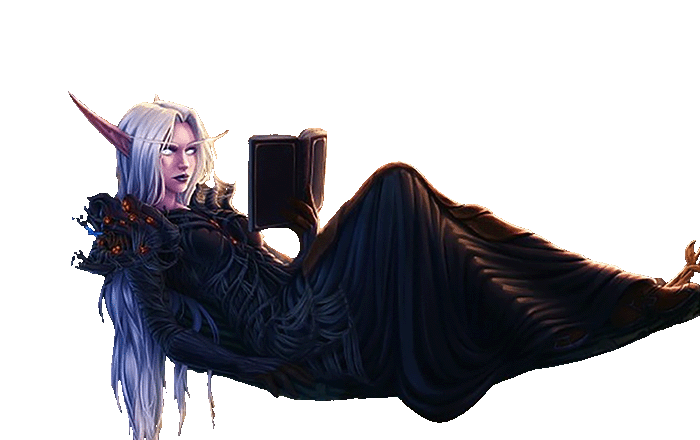
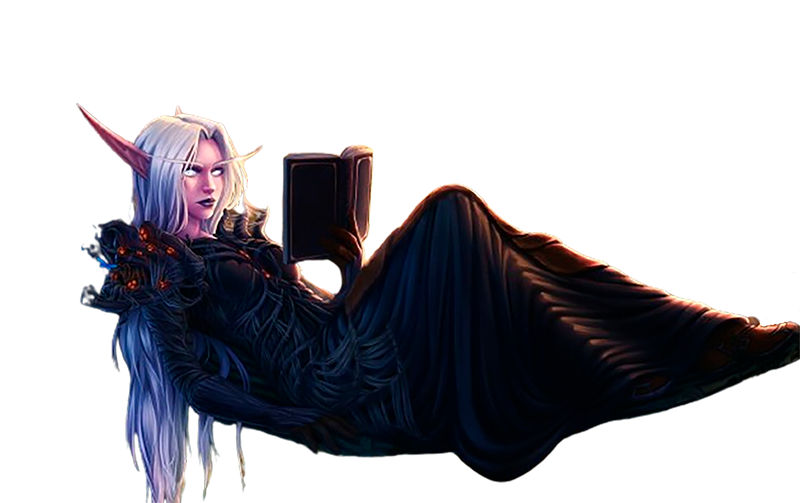
Настройка адаптива

diff --git a/index.html b/index.html
@@ -26,14 +26,14 @@
 <body>
   <wrapper class="wrapper">
 
-
-    <div class="box mb-2">
+    <!-- ########### nav_bar ############################ -->
+    <container class="nav_bar box mb-2">
       <div class="box_lvl p-2">
         <div class="container-fluid ">
           <div class="row ">
             <div class=" header_menu border-1 col-6">
               <div class="header_menu_container d-flex ">
-                <nav class="navbar navbar-expand-md bg-primary">
+                <nav class="navbar navbar-expand-xl bg-primary">
                   <div class="container-fluid">
                     <button class="navbar-toggler" type="button" data-bs-toggle="offcanvas"
                       data-bs-target="#offcanvasNavbar" aria-controls="offcanvasNavbar" aria-expanded="false"
@@ -59,29 +59,76 @@
                           <li class="nav-item">
                             <a class="nav-link" href="#">О нас</a>
                           </li>
-                          <li class="nav-item dropdown">
-                            <a class="nav-link dropdown-toggle" href="#" role="button" data-bs-toggle="dropdown"
-                              aria-expanded="false" data-bs-auto-close="outside">
-                              Dropdown
-                            </a>
-                            <ul class="dropdown-menu dropdown-menu-end">
-                              <li><a class="dropdown-item" href="#">Action</a></li>
-                              <li><a class="dropdown-item" href="#">Another action</a></li>
-                              <li class="nav-item dropend">
-                                <a class="nav-link dropdown-toggle" href="#" role="button" data-bs-toggle="dropdown"
-                                  aria-expanded="false" data-bs-auto-close="outside">
-                                  Dropdown
-                                </a>
-                                <ul class="dropdown-menu dropdown-menu-end">
-                                  <li><a class="dropdown-item" href="#">Action</a></li>
-                                  <li><a class="dropdown-item" href="#">Another action</a></li>
-                                </ul>
-                              </li>
-                              <li><a class="dropdown-item" href="#">Something else here</a></li>
-                            </ul>
-                          </li>
+
                         </ul>
-                      </div>
+                        <hr>
+                        <div class="d-block d-xl-none box_lvl p-2 mb-2  ">
+                          <p>Авторизция</p>
+                          <hr>
+                          <form>
+                            <div class="mb-3">
+                              <label for="exampleInputEmail1" class="form-label">Email address</label>
+                              <input type="email" class="form-control" id="exampleInputEmail1"
+                                aria-describedby="emailHelp">
+                              <div id="emailHelp" class="form-text">We'll never share your email with anyone else.</div>
+                            </div>
+                            <div class="mb-3">
+                              <label for="exampleInputPassword1" class="form-label">Password</label>
+                              <input type="password" class="form-control" id="exampleInputPassword1">
+                            </div>
+                            <div class="mb-3 form-check">
+                              <input type="checkbox" class="form-check-input" id="exampleCheck1">
+                              <label class="form-check-label" for="exampleCheck1">Check me out</label>
+                            </div>
+                            <button type="submit" class="btn btn-primary">Submit</button>
+                          </form>
+                        </div>
+                        
+                        <div class="d-block d-xl-none box_lvl p-2">
+                          <div class="text-center ">Последние книги</div>
+                          <hr>
+                          <div class="favorites_items">
+                            <div class="favorites_item d-flex align-items-center mb-2 ">
+                              <div class="favorites_image me-1 d-flex"><img
+                                  src="/assets/img/books/books_preview/kr2bfo46ow.jpg" alt=""></div>
+                              <div class="favorites_title"><a href="">
+                                  S.T.A.L.K.E.R. 01. Тумановский
+                                  Ежи и Дядищев
+                                  Александр - Тени Чернобыля. Клык
+                                </a></div>
+                            </div>
+                            <div class="favorites_item d-flex align-items-center mb-2  ">
+                              <div class="favorites_image me-1"><img src="/assets/img/books/books_preview/fon.jpg"
+                                  alt="">
+                              </div>
+                              <div class="favorites_title"><a href="">
+                                  Орехов Василий - Зона поражения
+                                </a></div>
+                            </div>
+                            <div class="favorites_item d-flex align-items-center mb-2  ">
+                              <div class="favorites_image me-1"><img
+                                  src="/assets/img/books/books_preview/kr2bfo46ow.jpg" alt=""></div>
+                              <div class="favorites_title"><a href="">
+                                  Зона поражения
+                                </a></div>
+                            </div>
+                            <div class="favorites_item d-flex align-items-center mb-2  ">
+                              <div class="favorites_image me-1"><img
+                                  src="/assets/img/books/books_preview/07g9k0los8.jpg" alt=""></div>
+                              <div class="favorites_title"><a href="">
+                                  S.T.A.L.K.E.R. 13. Калугин Алексей - Мечта на поражение
+                                </a></div>
+                            </div>
+                            <div class="favorites_item d-flex align-items-center mb-2  ">
+                              <div class="favorites_image me-1"><img
+                                  src="/assets/img/books/books_preview/mpidivxsgn.jpg" alt=""></div>
+                              <div class="favorites_title"><a href="">
+                                  S.T.A.L.K.E.R. 01. Тумановский Ежи и Дядищев Александр - Тени Чернобыля. Клык
+                                </a></div>
+                            </div>
+                          </div>
+                        </div>
+                      </div> <!-- offcanvas-body -->
                     </div>
                   </div>
                 </nav>
@@ -104,15 +151,10 @@
           </div> <!-- row -->
         </div> <!-- container-fluid -->
       </div>
-    </div>
+    </container> <!-- nav_bar -->
+    <!-- ########### /nav_bar ############################ -->
 
-
-
-
-
-
-    
-
+    <!-- ########### header ############################ -->
     <header class="header box mb-2 parallax">
       <div class="parallax__body rounded">
         <div class="header_top  p-1   parallax__container ">
@@ -166,7 +208,7 @@
               <div class="offcanvas-body">
                 <div class="d-flex  sidebar_container">
                   <div class="sidebar_container_row d-flex flex-column  ">
-   
+
                     <div class="border sidebar_genre box_lvl mb-2 p-2">
                       <div class="">
                         <div class="text-center ">Жанры</div>
@@ -544,6 +586,7 @@
           <container class="col d-flex box sidebar 	d-none d-xl-block">
             <div class="d-flex  sidebar_container">
               <div class="sidebar_container_row d-flex flex-column  ">
+                <!-- ### Авторизация ### -->
                 <div class=" sidebar_authorization  box_lvl mb-2 p-2">
                   <form>
                     <div class="mb-3">
@@ -562,7 +605,10 @@
                     <button type="submit" class="btn btn-primary">Submit</button>
                   </form>
 
-                </div>
+                </div> <!-- sidebar_authorization -->
+                <!-- ### /Авторизация ### -->
+
+                <!-- ### Жанры ### -->
                 <div class="border sidebar_genre box_lvl mb-2 p-2">
                   <div class="">
                     <div class="text-center ">Жанры</div>
@@ -646,6 +692,9 @@
                     </div>
                   </div>
                 </div>
+                <!-- ### /Жанры ### -->
+
+                <!-- ### Избранное ### -->
                 <div class="border box_lvl sidebar_favorites p-2">
                   <div class="">
                     <div class="text-center ">Последние книги</div>
@@ -691,7 +740,9 @@
                     </div>
                   </div>
                 </div>
-              </div> <!-- -->
+                <!-- ### /Избранное ### -->
+
+              </div> <!-- sidebar_container_row-->
             </div> <!-- sidebar_container-->
           </container> <!-- sidebar-->
           <!-- ######## /sidebar ########## -->

diff --git a/assets/css/main.css b/assets/css/main.css
@@ -420,7 +420,7 @@ main.main {
 }
 
 
-.images-parralax__fon {
+/* .images-parralax__fon {
     background: url("/assets/img/parallax/fon.jpg") top / cover no-repeat;
     
     top: 0;
@@ -448,7 +448,70 @@ main.main {
     .images-parralax__book {
         background-position: 20% top;
     }
+} */
+
+.images-parralax__fon {
+    background: url("/assets/img/parallax/fon.jpg") center / cover no-repeat;
+
+    top: 0;
 }
+
+.images-parralax__forest {
+    background: url("/assets/img/parallax/forest.png") top / cover no-repeat;
+    top: 0%;
+    z-index: 2;
+}
+
+.images-parralax__book {
+    background: url("/assets/img/parallax/book.png") bottom / contain no-repeat;
+    background-size: 65%;
+    top: 35%;
+    left: -10%;
+    z-index: 3;
+
+}
+
+@media (max-width: 1300px) {
+    .images-parralax__book {
+        background: url("/assets/img/parallax/book.png") bottom / contain no-repeat;
+        background-size: 65%;
+        top: 25%;
+        left: -10%;
+        z-index: 3;
+    
+    }
+}
+
+@media (max-width: 1100px) {
+    .images-parralax__book {
+        background: url("/assets/img/parallax/book.png") bottom / contain no-repeat;
+        /*background-size: 60%;*/
+        top: 20%;
+        left: -10%;
+        z-index: 3;
+    }
+}
+
+@media (max-width: 600px) {
+    .images-parralax__book {
+        background: url("/assets/img/parallax/book.png") bottom / contain no-repeat;
+        /*background-size: 60%;*/
+        top: 10%;
+        left: -10%;
+        z-index: 3;
+    }
+}
+
+@media (max-width: 400px) {
+    .images-parralax__book {
+        background: url("/assets/img/parallax/book.png") bottom / contain no-repeat;
+        /*background-size: 60%;*/
+        top: 5%;
+        left: -10%;
+        z-index: 3;
+    }
+}
+
 
 
 
